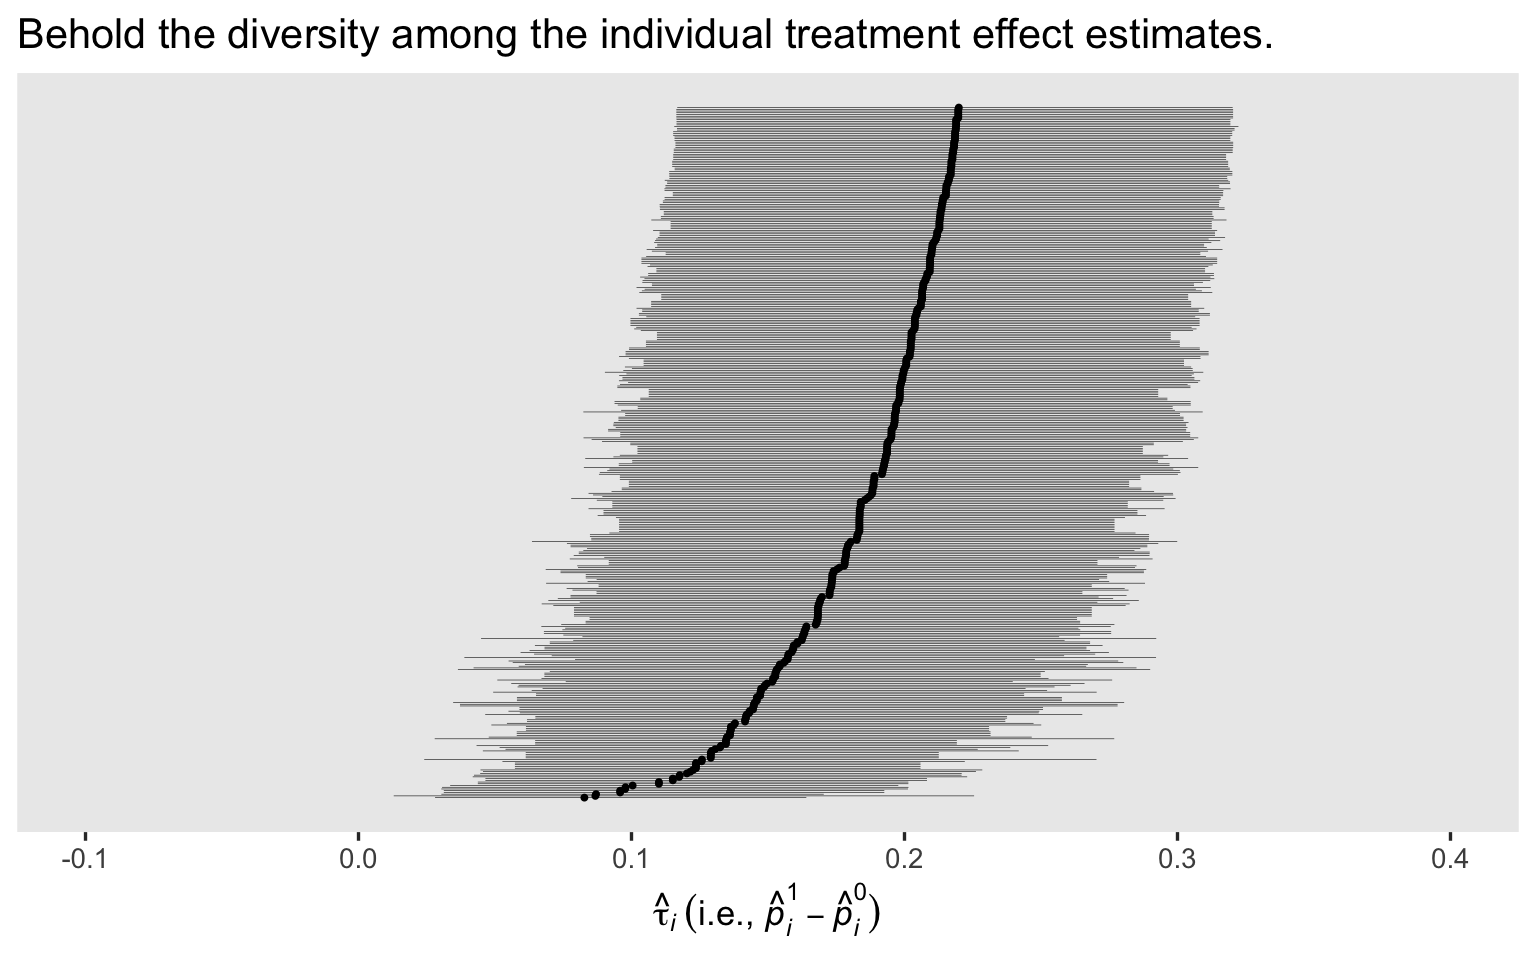
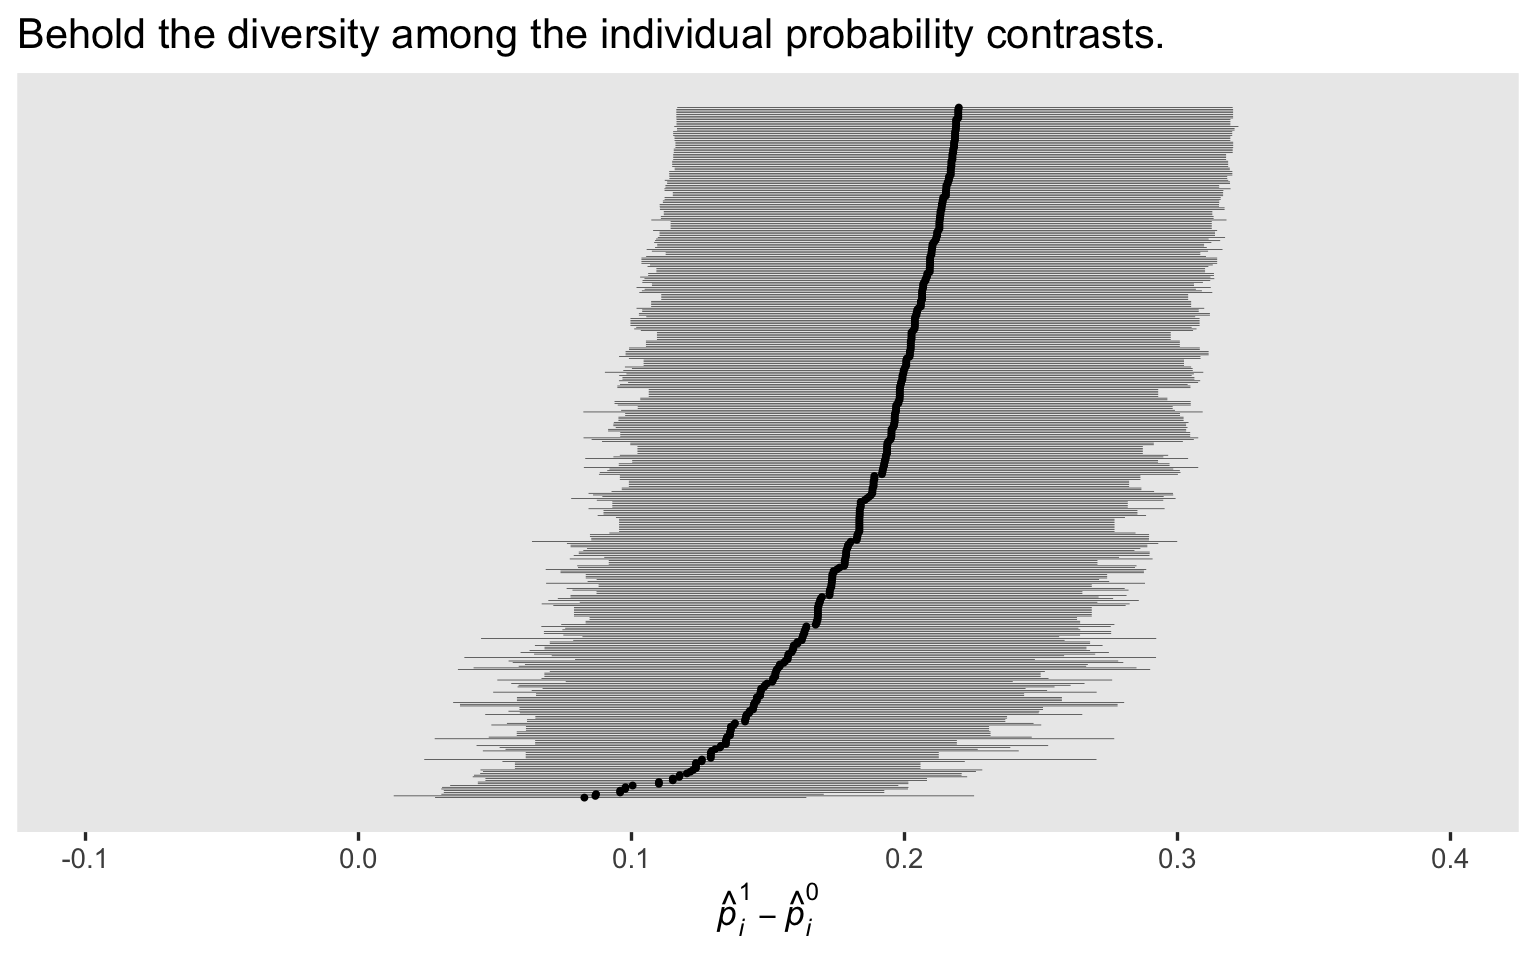
minor prose/code edits

Changed region(s): [[0.5, 0.0, 0.8438, 0.0625], [0.4062, 0.9062, 0.5625, 0.9688]]

diff --git a/content/blog/2023-02-15-causal-inference-with-bayesian-models/index.md b/content/blog/2023-02-15-causal-inference-with-bayesian-models/index.md
@@ -642,7 +642,7 @@ $$
 \end{align*}`
 $$
 
-Now we’re extending the generic `\(\operatorname{Normal}(0, 1)\)` prior to all predictor variables in the model. I have no doubt a real medical researcher could have set better priors. This is what you get when you let a psychologist put his mitts on your data.
+For simplicity, we’re extending the generic `\(\operatorname{Normal}(0, 1)\)` prior to all predictor variables in the ANCOVA version of the model. I have no doubt a real medical researcher could have set better priors. This is what you get when you let a psychologist put his mitts on your data.
 
 Here’s how to fit the Bayesian binomial models with the `brm()` function.
 
@@ -668,7 +668,7 @@ fit4 <- brm(
 )
 ```
 
-The parameter summary for the binomial ANCOVA `fit3` is pretty similar to the results from the `glm()`-based version of the model. You’ll note many of the parameters from our Bayesian `fit4` are more conservative compared to its frequentist counterpart. That’s what happens when you use a regularizing prior.
+The parameter summary for the binomial ANCOVA `fit3` is pretty similar to the results from the `glm()`-based version of the model. You’ll note many of the parameters from our Bayesian `fit4` are more conservative compared to its frequentist counterpart. That’s what happens when you use regularizing priors.
 
 ``` r
 print(fit3)
@@ -730,7 +730,7 @@ print(fit4)
 
 The overall format in the next few sections will follow the same sensibilities as those from above. We’ll be practicing most of the primary estimates from the [third post](https://timely-flan-2986f4.netlify.app/blog/2023-02-13-causal-inference-with-logistic-regression/#ate-for-the-anova) in this series. The main new addition is we’ll also consider work flows based around the handy `add_epred_draws()` function from the **tidybayes** package ([Kay, 2022](#ref-R-tidybayes)). Do note, the `add_epred_draws()` function would also have worked fine for the Gaussian models, above. I just waited until now because I didn’t want to overwhelm you with code in the first half of the blog.
 
-#### Compute `\(\Pr (y_i^1 = 1) - \Pr(y_i^0 = 1)\)` from `fit3`.
+#### Compute `\(p^1 - p^0\)` from `fit3`.
 
 When working with a `brm()` binomial model, the `fitted()` default is to return the posterior draws on the probability scale.
 
@@ -886,7 +886,7 @@ Each time, the results are exactly the same.
 
 ### Counterfactual interventions, with covariates, with the binomial.
 
-#### Compute `\(\operatorname{\mathbb{E}} \left (p_i^1 \mid \mathbf{\bar C}, \mathbf D^m \right) - \operatorname{\mathbb{E}} \left (p_i^0 \mid \mathbf{\bar C}, \mathbf D^m \right)\)` from `fit4`.
+#### Compute `\(\left (p^1 \mid \mathbf{\bar C}, \mathbf D^m \right) - \left (p^0 \mid \mathbf{\bar C}, \mathbf D^m \right)\)` from `fit4`.
 
 As in the [last post](https://timely-flan-2986f4.netlify.app/blog/2023-02-13-causal-inference-with-logistic-regression/#compute-operatornamemathbbe-left-p_i1--mathbfbar-c-mathbf-dm-right---operatornamemathbbe-left-p_i0--mathbfbar-c-mathbf-dm-right-from-glm2), we going to want to make a custom function to compute the modes for a few variables.
 
@@ -1074,7 +1074,7 @@ avg_comparisons(fit4, newdata = nd, variables = "tx")
     ## Prediction type:  response 
     ## Columns: type, term, contrast, estimate, conf.low, conf.high
 
-In the [last post](https://timely-flan-2986f4.netlify.app/blog/2023-02-13-causal-inference-with-logistic-regression/#compute-mathbb-e-p_i1---p_i0--mathbf-c_i-mathbf-d_i-from-glm2), we showcased the diversity among the `\(\tau_i\)`’s with a coefficient plot. Here’s how to make the analogous plot for the Bayesian version of the model, using a `fitted()`-based work flow.
+In the [last post](https://timely-flan-2986f4.netlify.app/blog/2023-02-13-causal-inference-with-logistic-regression/#compute-mathbb-e-p_i1---p_i0--mathbf-c_i-mathbf-d_i-from-glm2), we showcased the diversity among the `\(p_i^1 - p_i^0\)` contrasts with a coefficient plot. Here’s how to make the analogous plot for the Bayesian version of the model, using a `fitted()`-based work flow.
 
 ``` r
 fitted(fit4,
@@ -1101,14 +1101,14 @@ fitted(fit4,
   ggplot(aes(x = tau, xmin = .lower, xmax = .upper, y = rank)) +
   geom_pointrange(linewidth = 1/10, fatten = 1/10) +
   scale_y_continuous(NULL, breaks = NULL) +
-  labs(title = "Behold the diversity among the individual treatment effect estimates.",
-       x = expression(hat(tau)[italic(i)]~("i.e., "*hat(italic(p))[italic(i)]^1-hat(italic(p))[italic(i)]^0))) +
+  labs(title = "Behold the diversity among the individual probability contrasts.",
+       x = expression(hat(italic(p))[italic(i)]^1-hat(italic(p))[italic(i)]^0)) +
   coord_cartesian(xlim = c(-0.1, 0.4))
 ```
 
 <img src="{{< blogdown/postref >}}index_files/figure-html/unnamed-chunk-48-1.png" width="768" />
 
-If you compare this plot with the original maximum-likelihood version from the [last post](https://timely-flan-2986f4.netlify.app/blog/2023-02-13-causal-inference-with-logistic-regression/#compute-mathbb-e-p_i1---p_i0--mathbf-c_i-mathbf-d_i-from-glm2), you’ll note our priors have reigned some of the posteriors in a bit, particularly the `\(\tau_i\)`’s with the lowest rank. I don’t know that one solution is more correct than the other, but priors do change the model.
+If you compare this plot with the original maximum-likelihood version from the [last post](https://timely-flan-2986f4.netlify.app/blog/2023-02-13-causal-inference-with-logistic-regression/#compute-mathbb-e-p_i1---p_i0--mathbf-c_i-mathbf-d_i-from-glm2), you’ll note our priors have reigned some of the posteriors in a bit, particularly the `\(p_i^1 - p_i^0\)` contrasts with the lowest rank. I don’t know that one solution is more correct than the other, but priors do change the model.
 
 Since we’re plotting, we might also show the whole posterior distribution for the resulting `\(\tau_\text{ATE}\)`. Here we’ll base our wrangling workflow on the `add_epred_draws()` method, and then plot the results with help from the `stat_halfeye()` function.
 
@@ -1141,7 +1141,7 @@ In this post, some of the main points we covered were:
   - an `as_draws_df()`-based approach, or
   - a `predictions()`/`avg_comparisons()`-based approach.
 
-In the next post, we’ll explore how our causal inference methods work with a gamma regression model. Until then, happy modeling, friends!
+In the [next post](https://timely-flan-2986f4.netlify.app/blog/2023-03-03-causal-inference-with-count-regression/), we’ll explore how our causal inference methods work with Poisson and negative-binomial models. Until then, happy modeling, friends!
 
 ## Session information
 
